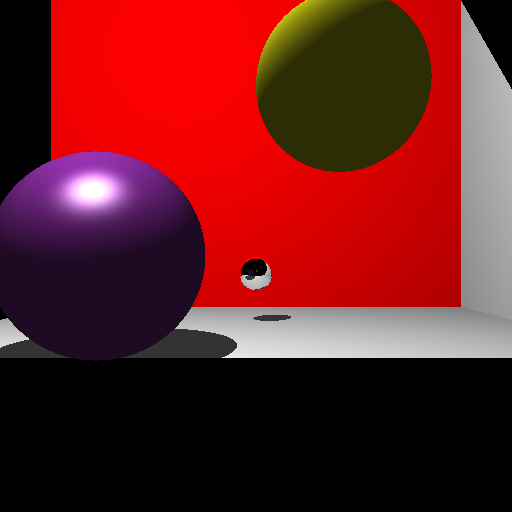
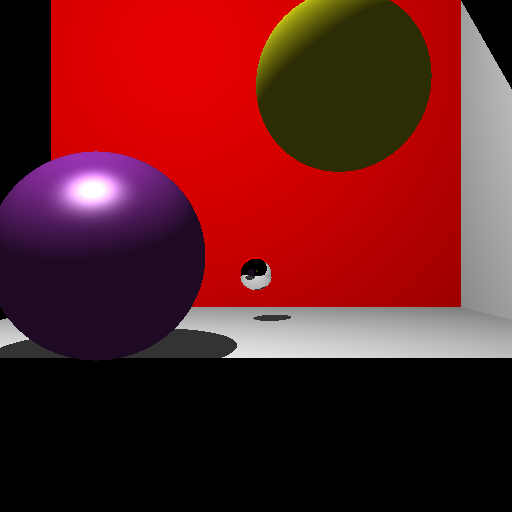
Triangles from file

Changed region(s): [[0.0938, 0.0, 0.5625, 0.3438]]

diff --git a/src/main.rs b/src/main.rs
@@ -211,6 +211,7 @@ fn main() {
         }
     }
     let mut spheres: Vec<Sphere> = Vec::new();
+    let mut triangles: Vec<Triangle> = Vec::new();
 
     let lines = read_lines("./test.ray".to_string());
     for line in lines {
@@ -247,12 +248,38 @@ fn main() {
 
                 spheres.push(sphere);
             }
-            "triangle" => {}
+            "triangle" => {
+                let a_str = split.next().unwrap_or_default();
+                let b_str = split.next().unwrap_or_default();
+                let c_str = split.next().unwrap_or_default();
+                let color_str = split.next().unwrap_or_default();
+                let mat_type_str = split.next().unwrap_or_default();
+                let id_str = split.next().unwrap_or_default();
+
+                let a = parse_vec(a_str);
+                let b = parse_vec(b_str);
+                let c = parse_vec(c_str);
+                let color = parse_vec(color_str);
+                let id = id_str.parse::<i8>().unwrap_or_else(|_val| -> i8 { -1 });
+                let mat_type = match mat_type_str {
+                    "matte" => geometry::MaterialType::Matte,
+                    "glossy" => geometry::MaterialType::Glossy,
+                    "refl" => geometry::MaterialType::Reflective,
+                    _ => geometry::MaterialType::Matte,
+                };
+                let triangle = Triangle {
+                    a,
+                    b,
+                    c,
+                    mat: geometry::Material { color, t: mat_type },
+                    id,
+                };
+
+                triangles.push(triangle);
+            }
             _ => println!("Invalid line"),
         }
     }
-
-    println!("{:?}", spheres);
 
     let image_size = 2;
     let pixel_width = image_size as f32 / pixel_count as f32;
@@ -260,44 +287,6 @@ fn main() {
 
     let start_pos = vec(0.0, 0.0, 0.0);
     let light_pos = vec(-3.0, 8.0, -6.0);
-
-    let triangles = [
-        triangle(
-            vec(-8.0, -2.0, -20.0),
-            vec(8.0, -2.0, -20.0),
-            vec(8.0, 10.0, -20.0),
-            RED,
-            3,
-        ),
-        triangle(
-            vec(-8.0, -2.0, -20.0),
-            vec(8.0, 10.0, -20.0),
-            vec(-8.0, 10.0, -20.0),
-            RED,
-            4,
-        ),
-        triangle(
-            vec(-8.0, -2.0, -20.0),
-            vec(8.0, -2.0, -10.0),
-            vec(8.0, -2.0, -20.0),
-            WHITE,
-            5,
-        ),
-        triangle(
-            vec(-8.0, -2.0, -20.0),
-            vec(-8.0, -2.0, -10.0),
-            vec(8.0, -2.0, -10.0),
-            WHITE,
-            6,
-        ),
-        triangle(
-            vec(8.0, -2.0, -20.0),
-            vec(8.0, -2.0, -10.0),
-            vec(8.0, 10.0, -20.0),
-            WHITE,
-            7,
-        ),
-    ];
 
     for (x, y, pixel) in img.enumerate_pixels_mut() {
         let mut r = 0 as u8;
